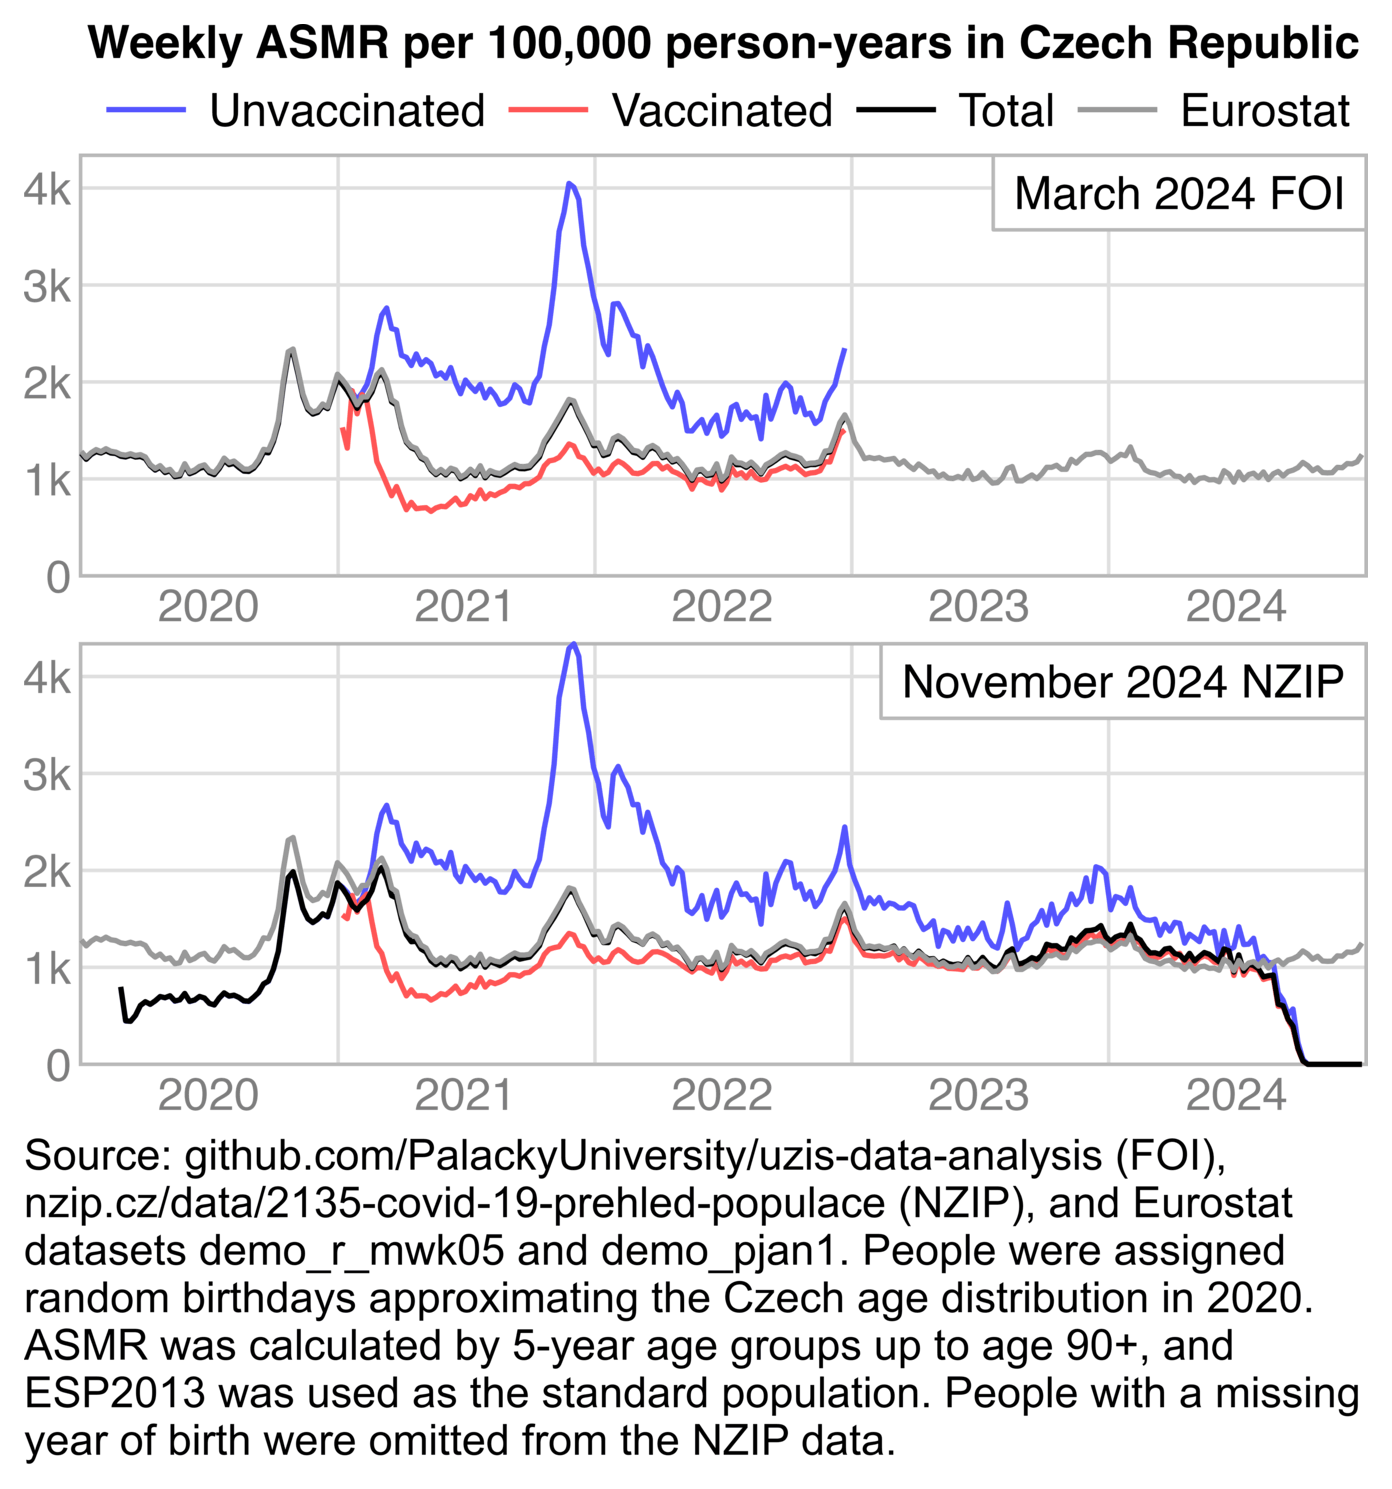
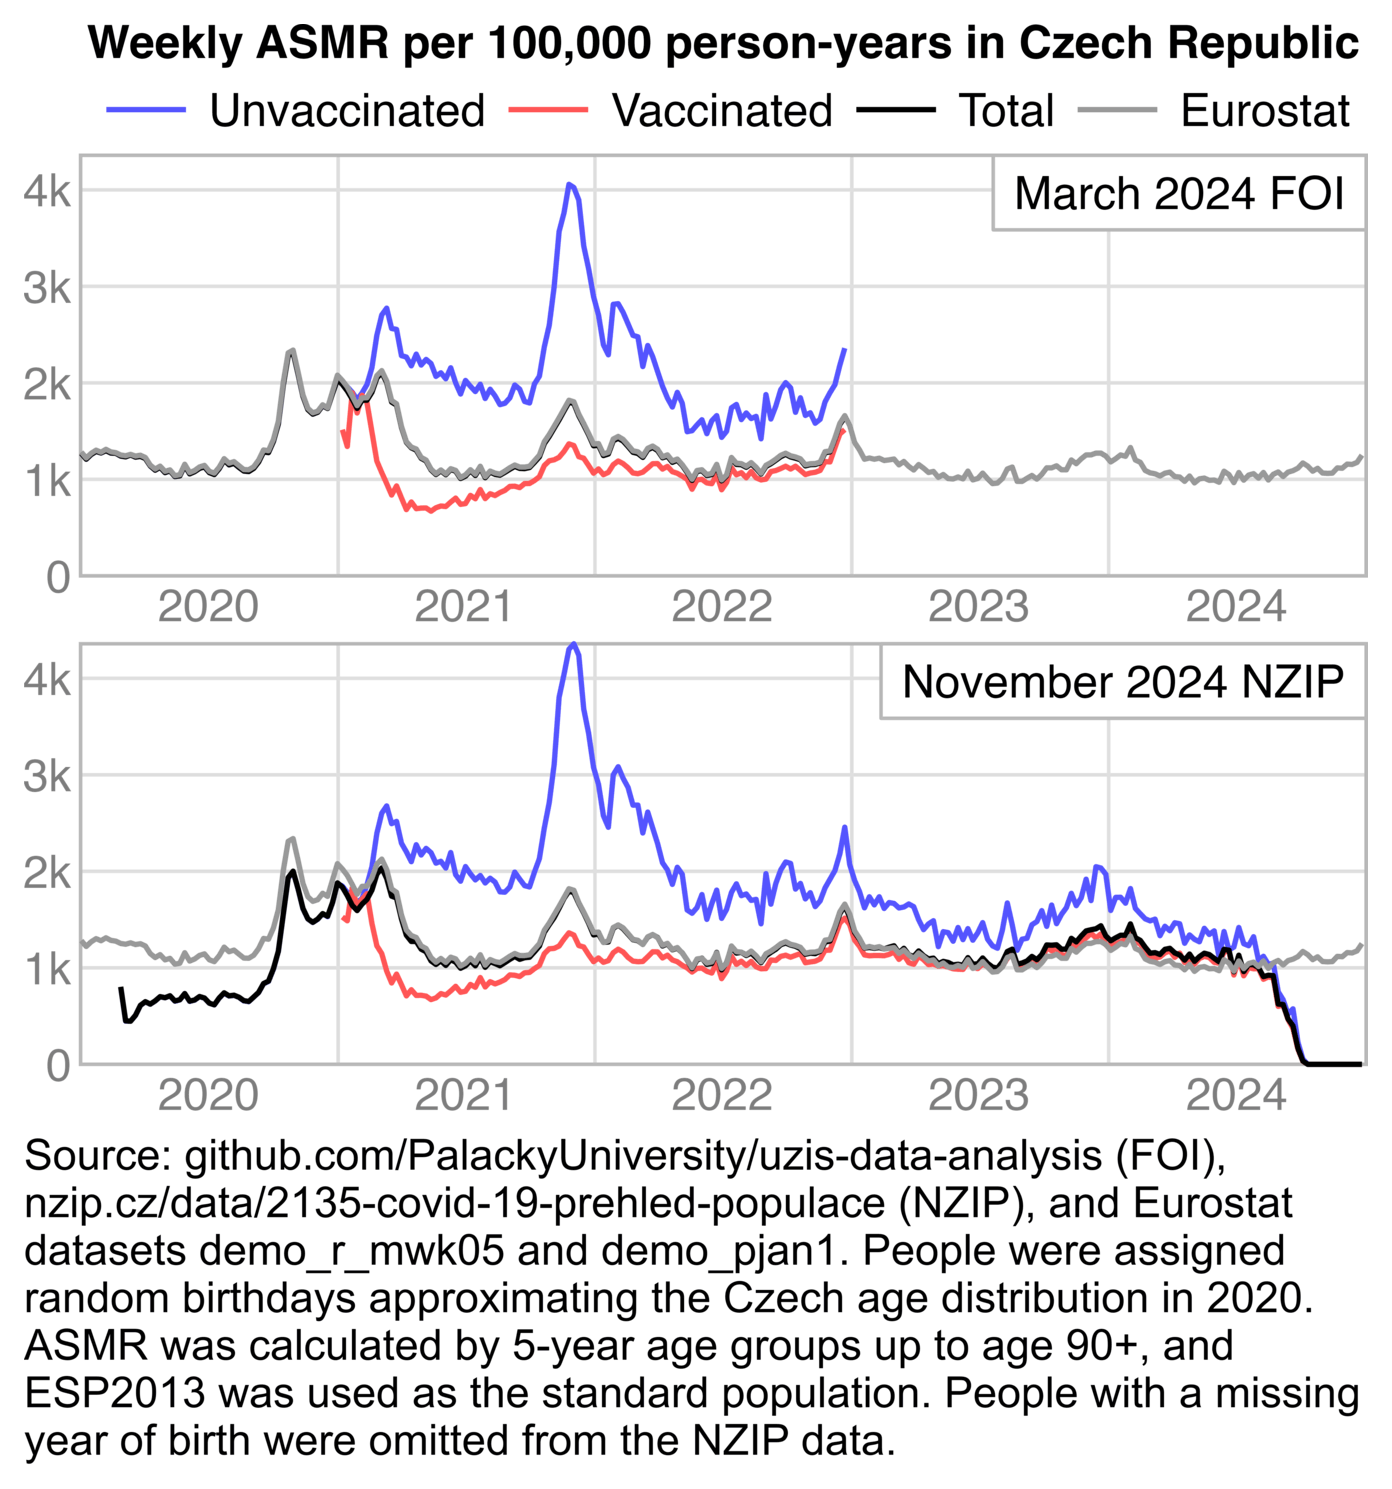
a

diff --git a/czech4.html b/czech4.html
@@ -4012,10 +4012,9 @@ causes the unvaccinated ASMR to be slightly exaggerated in the NZIP
 dataset. The unvaccinated ASMR is particularly exaggerated during COVID
 waves, because none of the unvaccinated people who have a date of COVID
 death listed are missing the year of birth.</p>
-<p>So here during the Delta wave, unvaccinated people have about 8%
-higher ASMR in the NZIP data than the FOI data, even though in the
-summer of 2022, unvaccinated people have only about 5% higher ASMR in
-the NZIP data than the FOI data:</p>
+<p>So here if you compare the unvaccinated ASMR in NZIP against FOI,
+it's about 8% higher during the Delta peak but only about 5% higher in
+the summer of 2022:</p>
 <div>
 <img src=i/czech-triple-comparison.webp width=520>
 </div>